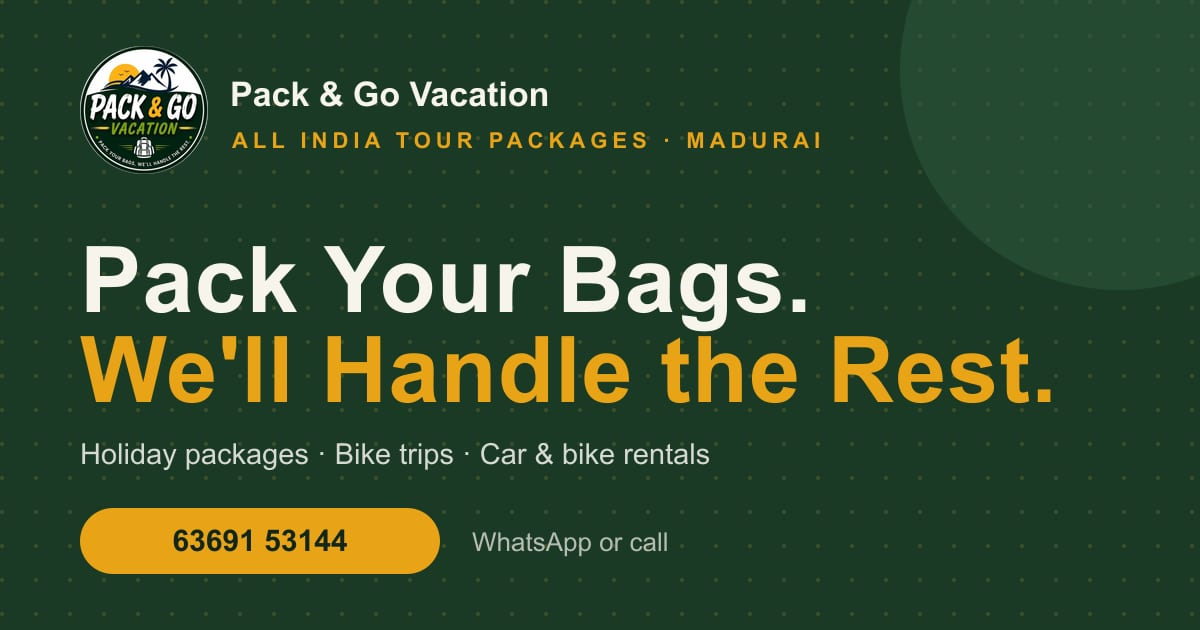
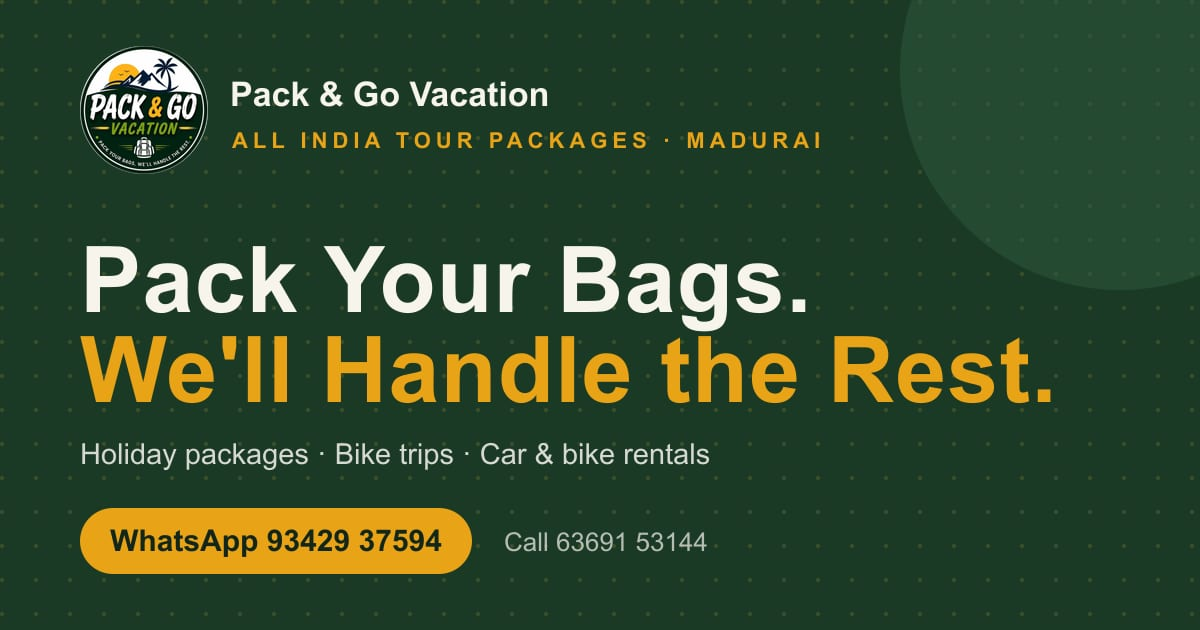
contact

Changed region(s): [[0.0925, 0.7841, 0.5858, 0.9349]]

diff --git a/src/lib/contact.js b/src/lib/contact.js
@@ -1,6 +1,6 @@
 import site from '../content/site.json';
 
-const { whatsappNumber, phoneLink, phoneDisplay } = site.contact;
+const { whatsappNumber, phoneLink, phoneDisplay, altPhoneLink, altPhoneDisplay } = site.contact;
 
 /**
  * Build a wa.me link with a context-specific prefilled message.
@@ -13,6 +13,22 @@ export function wa(message) {
 
 export const tel = `tel:${phoneLink}`;
 export const phone = phoneDisplay;
+
+/**
+ * Second contact number. Both are `null` when the owner hasn't set one, so
+ * every caller can render the extra row conditionally.
+ */
+export const altPhone = altPhoneDisplay || null;
+export const altTel = altPhone ? `tel:${altPhoneLink}` : null;
+
+/**
+ * The WhatsApp number in display form ("93429 37594"), derived from
+ * whatsappNumber so the two can never drift apart.
+ */
+export const whatsappDisplay = whatsappNumber.replace(/^91/, '').replace(/^(\d{5})(\d{5})$/, '$1 $2');
+
+/** Every number the business answers on — used for the JSON-LD `telephone`. */
+export const phoneLinks = [phoneLink, altPhone ? altPhoneLink : null].filter(Boolean);
 
 /** "Call 63691 53144" — used on the hero and final CTA. */
 export const callLabel = `Call ${phoneDisplay}`;

diff --git a/claude.md b/claude.md
@@ -18,8 +18,8 @@ Single-page marketing website for **Pack & Go Vacation**, a tour operator and ve
 
 1. **Mobile-first.** Design at 360px width first, then scale up. Desktop is secondary.
 2. **Fast on 4G.** Target Lighthouse performance 90+ on mobile. Every image lazy-loaded and compressed.
-3. **WhatsApp is the primary CTA.** Link format: `https://wa.me/916369153144?text=<url-encoded prefilled message>`. Prefill context-specific text per section (e.g. from the Goa card: "Hi, I'm interested in the Goa package").
-4. **Phone number is tappable everywhere.** Use `tel:+916369153144`.
+3. **WhatsApp is the primary CTA.** Link format: `https://wa.me/919342937594?text=<url-encoded prefilled message>`. Prefill context-specific text per section (e.g. from the Goa card: "Hi, I'm interested in the Goa package").
+4. **Phone numbers are tappable everywhere.** Two numbers: `tel:+916369153144` (primary) and `tel:+919342937594` (also the WhatsApp line). Never hardcode either — read them from `src/content/site.json` via `src/lib/contact.js`.
 5. **No placeholder content ships.** Anything marked `[[TO CONFIRM]]` in `content/website-content.md` must either be filled by the owner or the element removed. Never invent prices, review text, stats, or policies.
 6. **No stock photography.** Only the client's own trip photos.
 
@@ -130,7 +130,7 @@ Sections in order (all one page, anchor-linked):
 - Short sentences. Plain English. No "unlock your wanderlust," no "embark on a journey," no travel-brochure filler.
 - The tagline **"Pack your bags, we'll handle the rest."** is fixed brand copy — do not reword it.
 - Prices display as `From ₹X,XXX` — always with "From," always with the rupee symbol.
-- Phone displays as `63691 53144` (spaced) but links as `+916369153144`.
+- Phones display spaced — `63691 53144`, `93429 37594` — but link as `+916369153144` / `+919342937594`.
 
 ---
 

diff --git a/content.md b/content.md
@@ -19,7 +19,7 @@ tour packages Madurai · Madurai travel agency · bike trip packages Tamil Nadu 
 Home · Packages · Rentals · Why Us · Reviews · Contact
 → Right side button: **WhatsApp Us**
 
-**Floating button (mobile, bottom-right):** WhatsApp icon → `wa.me/916369153144`
+**Floating button (mobile, bottom-right):** WhatsApp icon → `wa.me/919342937594`
 
 ---
 
@@ -279,7 +279,7 @@ Grid of 8–12 real photos from your trips. Warkala cliffs, Goa beaches, Munnar 
 **H2:** Questions people ask
 
 **How do I book a package?**
-Message us on WhatsApp at 63691 53144 or call us directly. Tell us your destination, dates, and group size, and we'll send an itinerary and quote.
+Message us on WhatsApp at 93429 37594, or call us on 63691 53144. Tell us your destination, dates, and group size, and we'll send an itinerary and quote.
 
 **How much advance do I have to pay?**
 `[[TO CONFIRM]]`% of the total at the time of booking, with the balance due `[[TO CONFIRM]]`.
@@ -326,7 +326,8 @@ Packages · Rentals · Why Us · Contact
 
 **Column 3 — Contact**
 📞 63691 53144
-💬 WhatsApp
+📞 93429 37594
+💬 WhatsApp 93429 37594
 📧 `[[TO CONFIRM]] email address`
 📷 @pack_go_vaccation
 

diff --git a/src/content/website-content.md b/src/content/website-content.md
@@ -19,7 +19,7 @@ tour packages Madurai · Madurai travel agency · bike trip packages Tamil Nadu 
 Home · Packages · Rentals · Why Us · Reviews · Contact
 → Right side button: **WhatsApp Us**
 
-**Floating button (mobile, bottom-right):** WhatsApp icon → `wa.me/916369153144`
+**Floating button (mobile, bottom-right):** WhatsApp icon → `wa.me/919342937594`
 
 ---
 
@@ -279,7 +279,7 @@ Grid of 8–12 real photos from your trips. Warkala cliffs, Goa beaches, Munnar 
 **H2:** Questions people ask
 
 **How do I book a package?**
-Message us on WhatsApp at 63691 53144 or call us directly. Tell us your destination, dates, and group size, and we'll send an itinerary and quote.
+Message us on WhatsApp at 93429 37594, or call us on 63691 53144. Tell us your destination, dates, and group size, and we'll send an itinerary and quote.
 
 **How much advance do I have to pay?**
 `[[TO CONFIRM]]`% of the total at the time of booking, with the balance due `[[TO CONFIRM]]`.
@@ -326,7 +326,8 @@ Packages · Rentals · Why Us · Contact
 
 **Column 3 — Contact**
 📞 63691 53144
-💬 WhatsApp
+📞 93429 37594
+💬 WhatsApp 93429 37594
 📧 `[[TO CONFIRM]] email address`
 📷 @pack_go_vaccation
 
